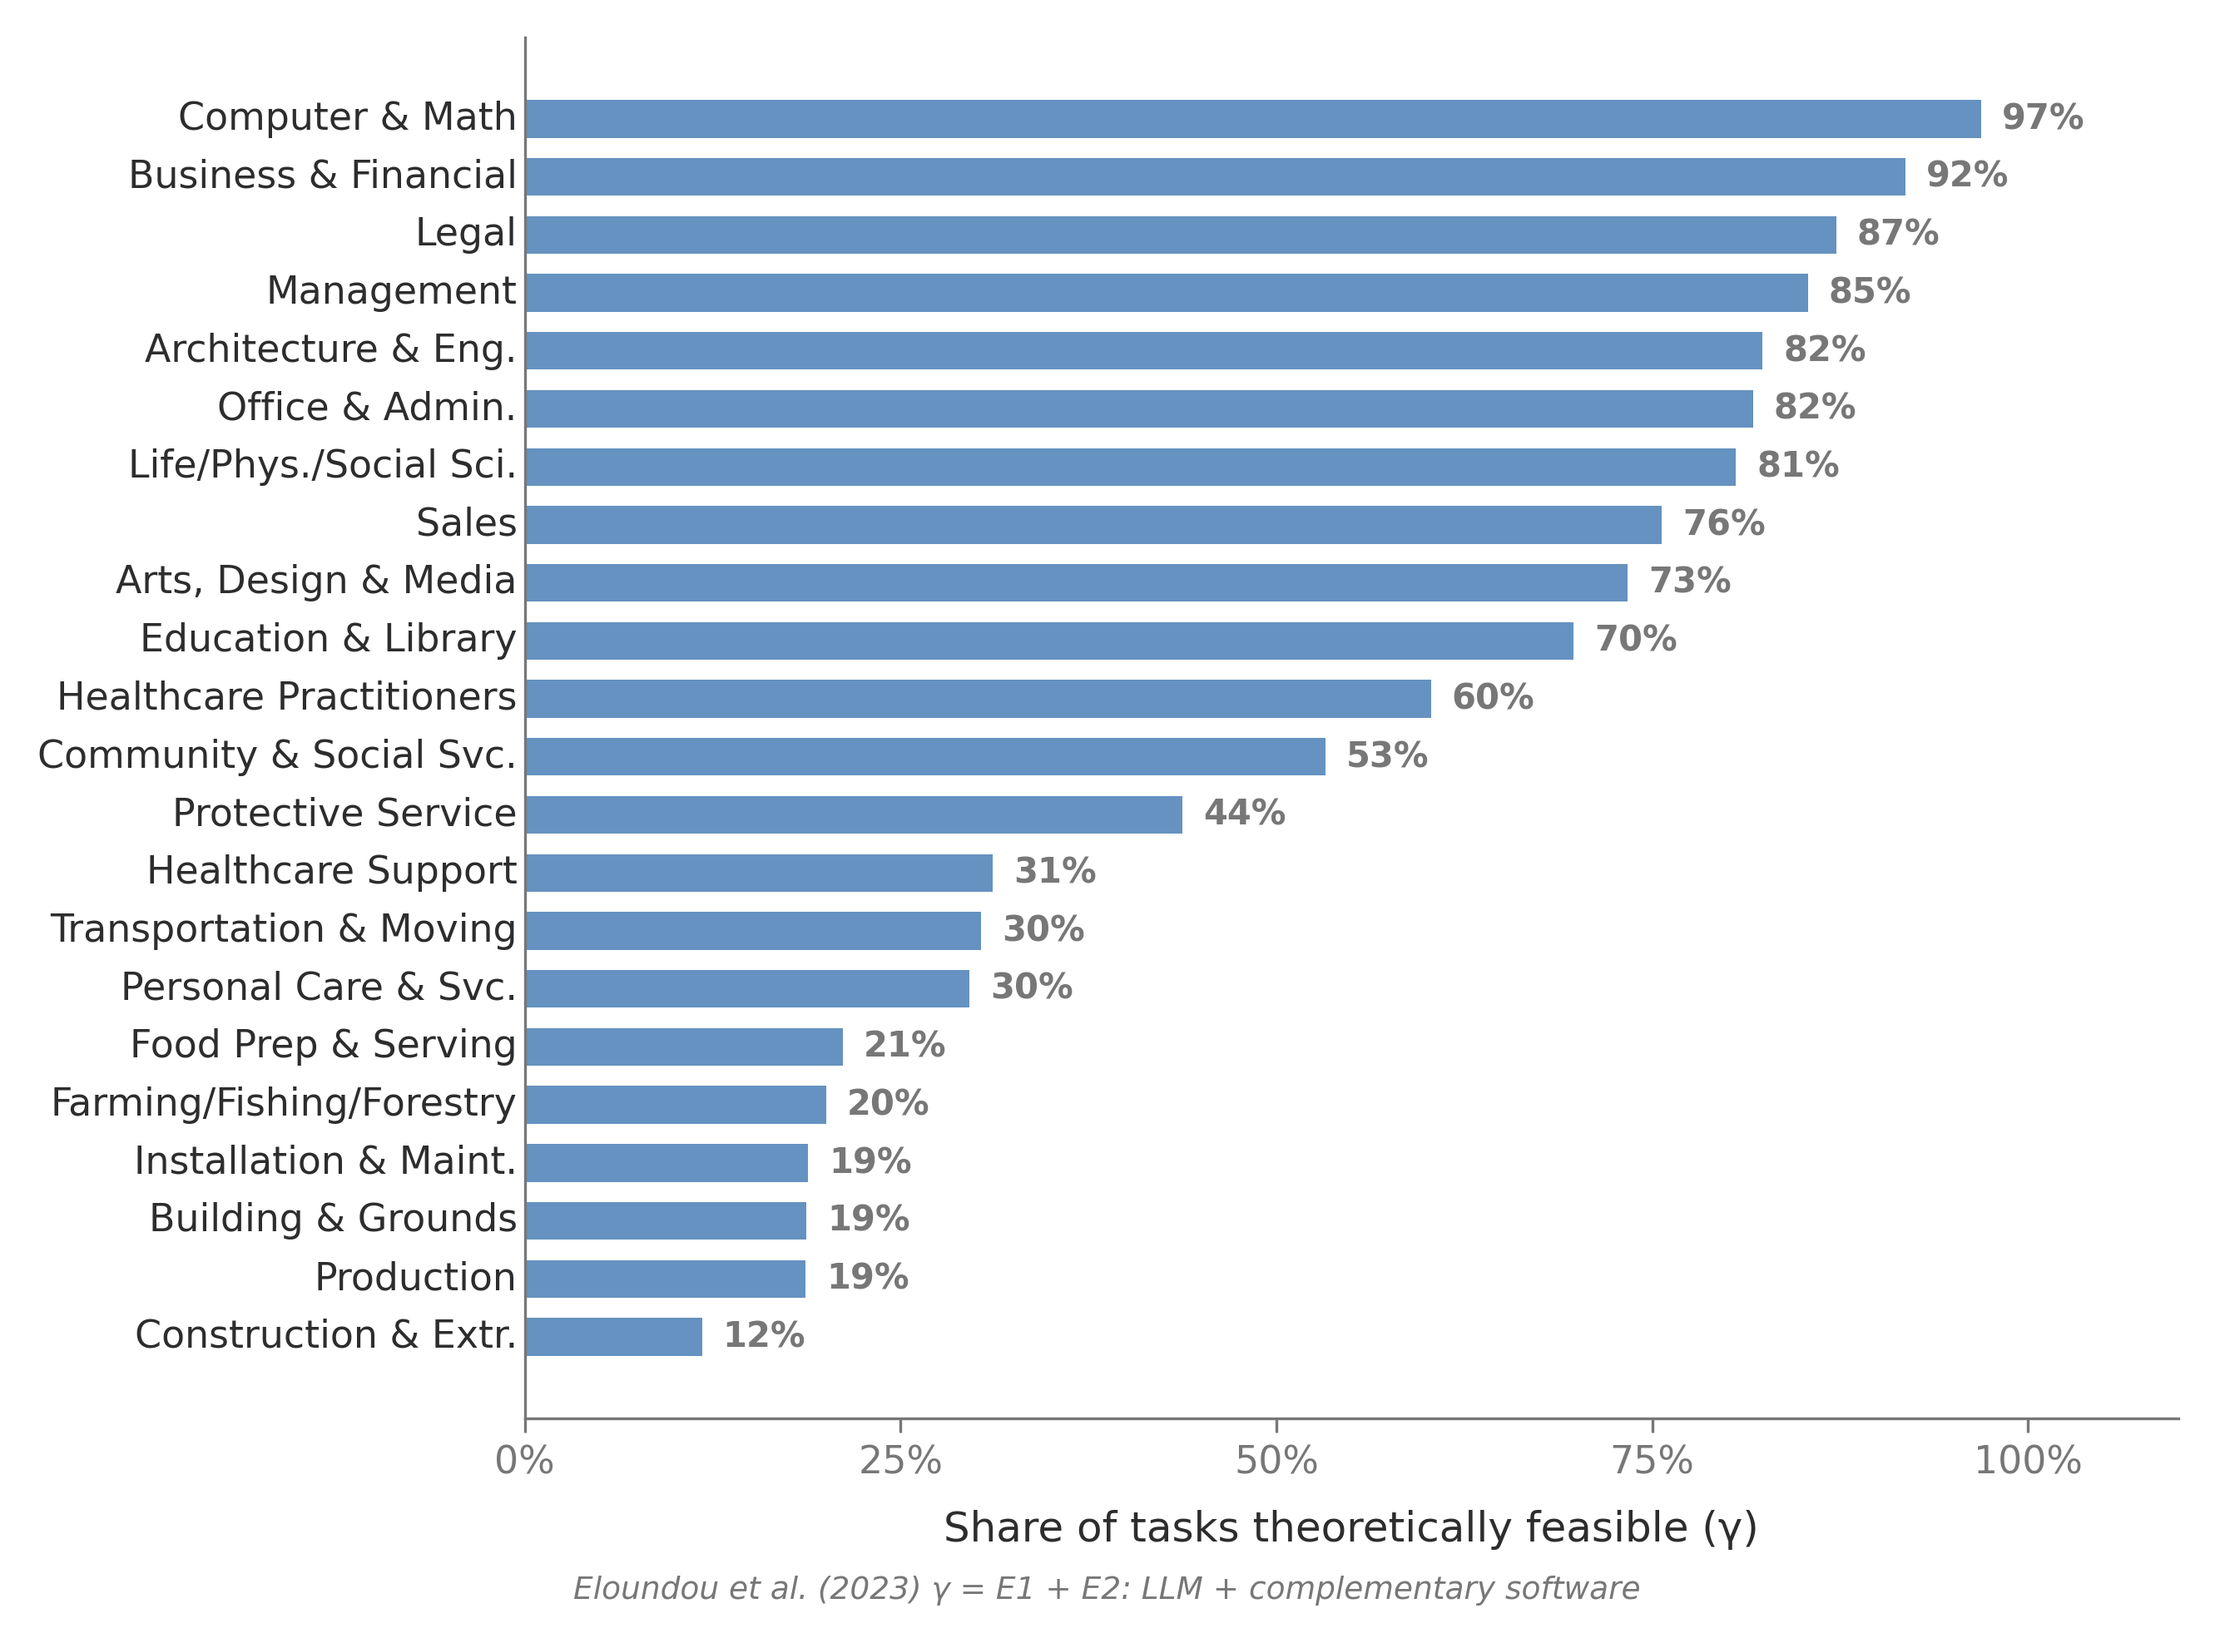
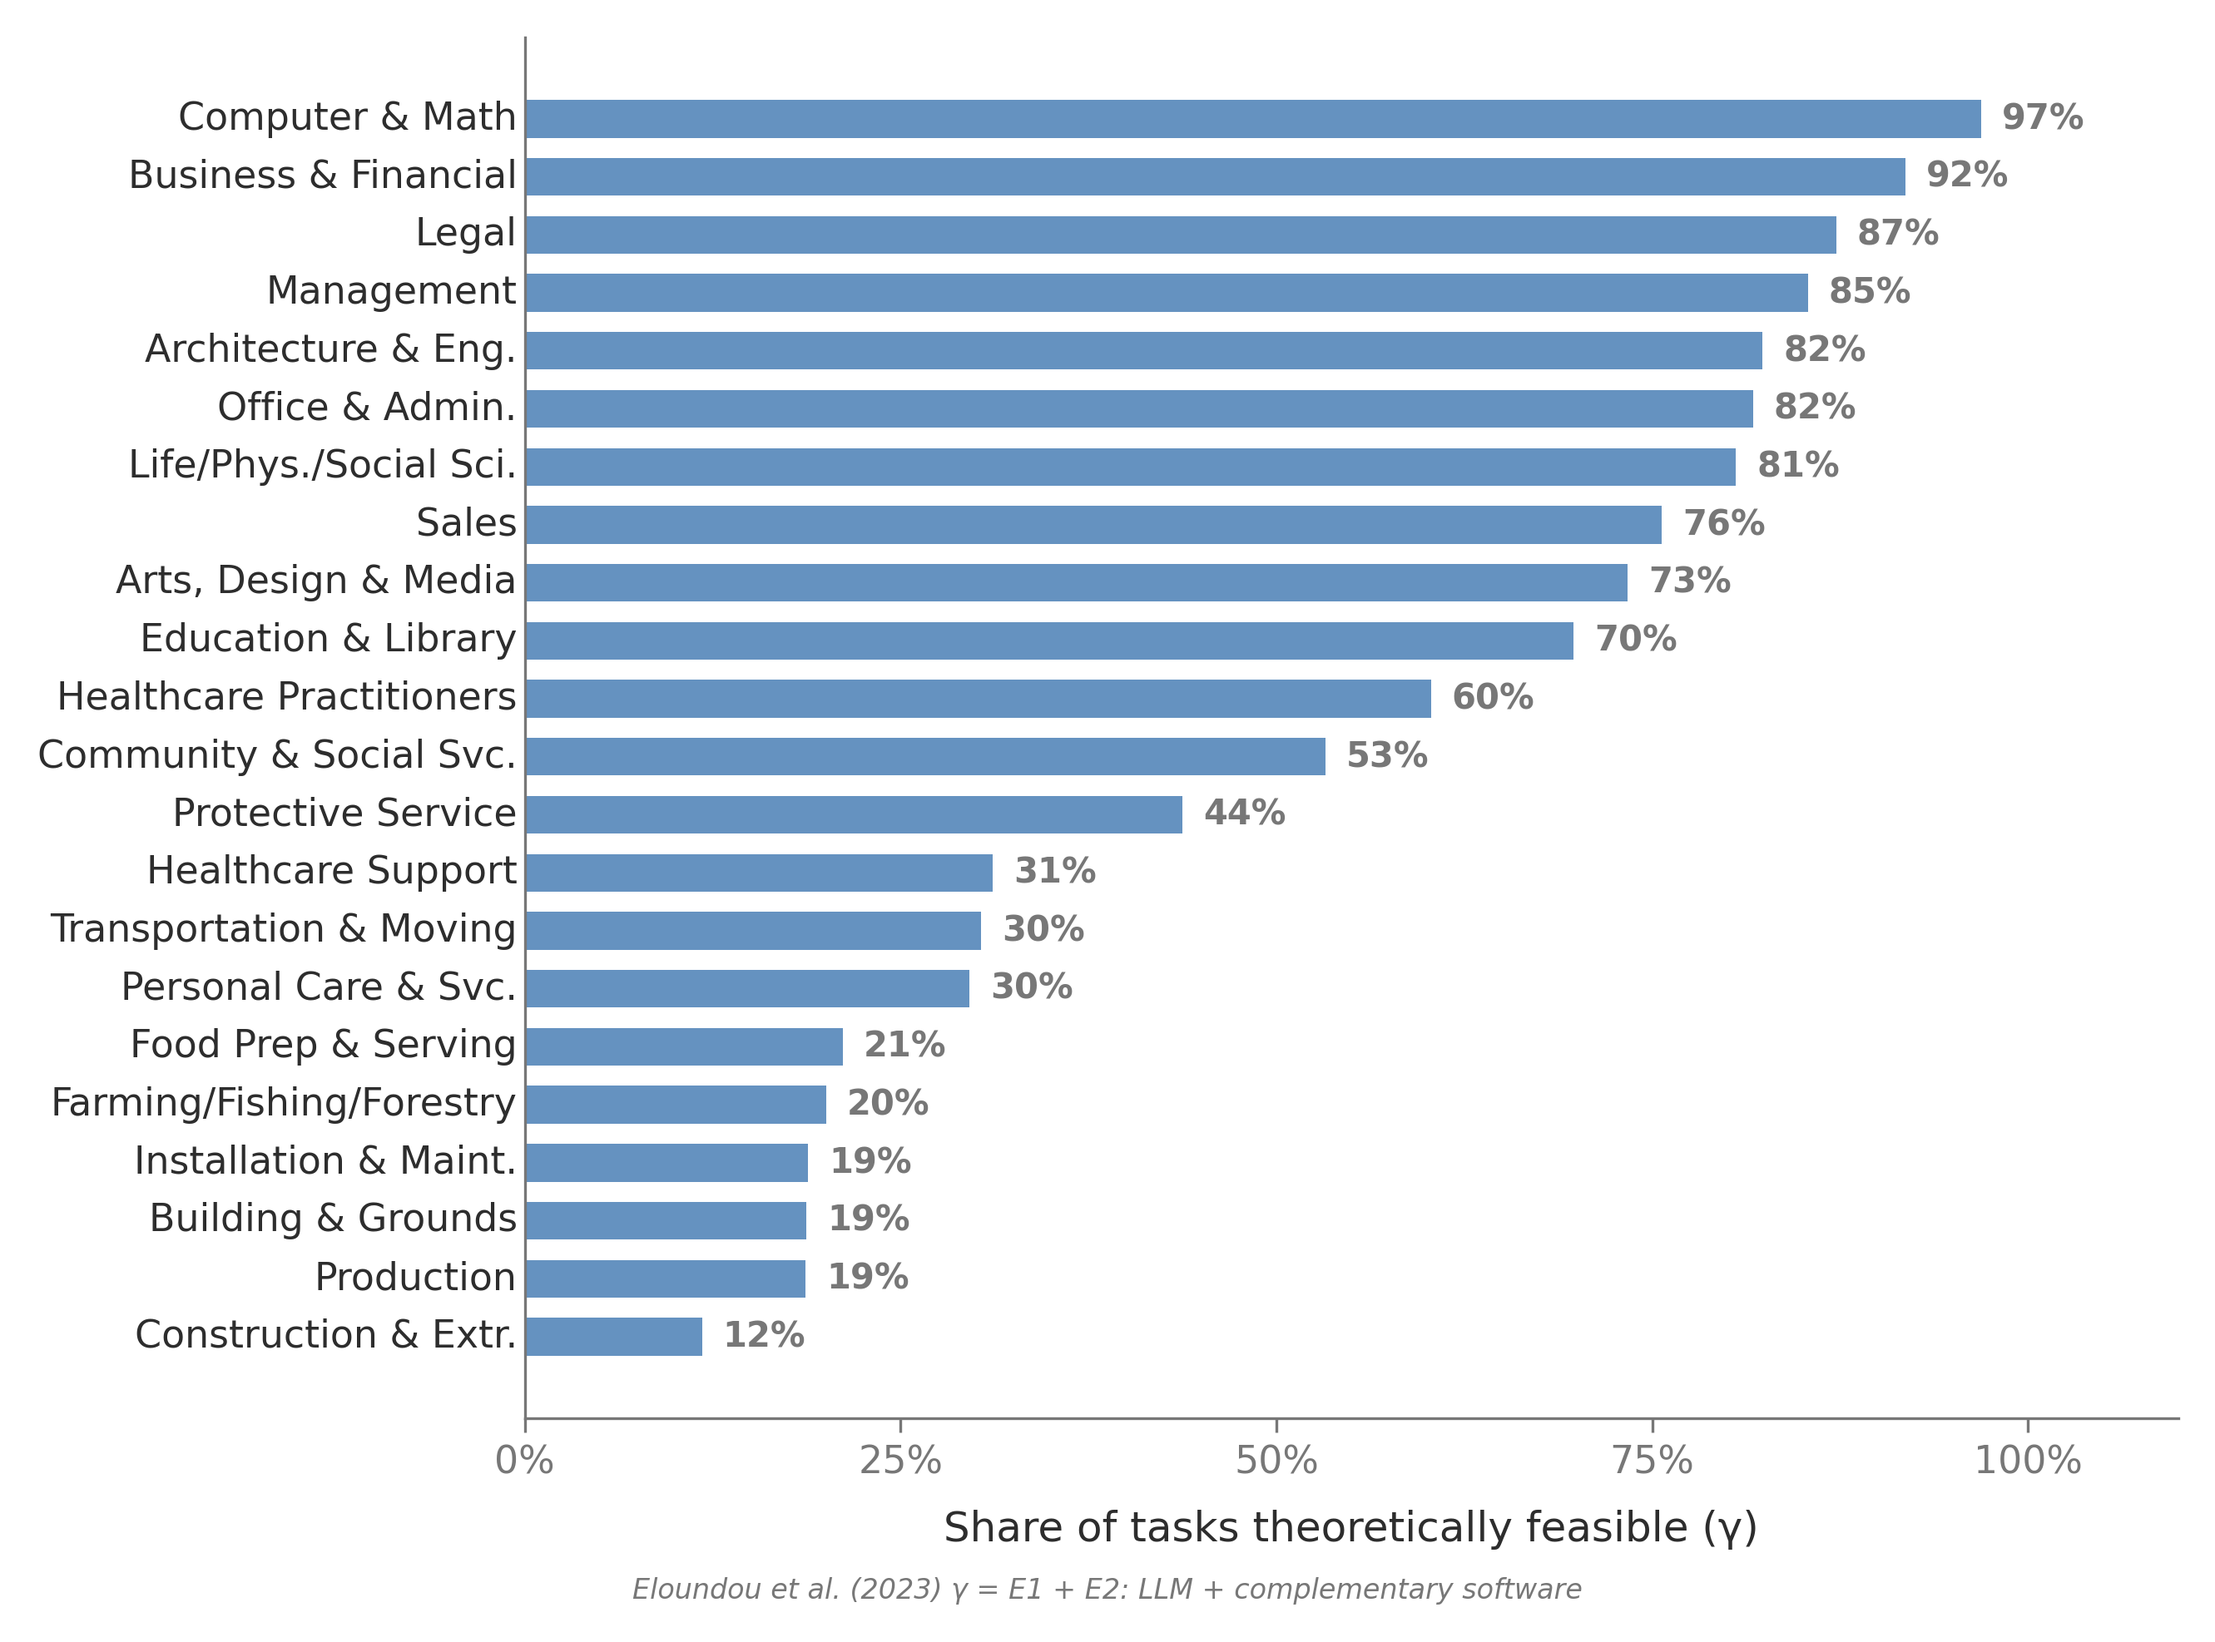
v0.7.9.7: Style system upgrade

Changed region(s): [[0.2494, 0.958, 0.7483, 0.9889]]

diff --git a/figures/style.py b/figures/style.py
@@ -1,14 +1,41 @@
 """Shared style module for presentation figures."""
 import matplotlib.pyplot as plt
 from matplotlib.font_manager import findfont, FontProperties
+from matplotlib.ticker import FuncFormatter
 
-# Colors
-PRIMARY   = '#4A7FB5'  # steel blue — primary data
-SECONDARY = '#A0937D'  # warm gray — secondary/comparison
-DARK      = '#2D2D2D'  # charcoal — titles, labels
-MID       = '#777777'  # medium gray — annotations
-GRID      = '#E0E0E0'  # light gray — gridlines
-BG        = '#FFFFFF'   # white — always
+# ─── Core semantic colors ───
+PRIMARY   = '#4A7FB5'  # steel blue — "ours" / embedding data
+SECONDARY = '#A0937D'  # warm tan — "theirs" / O*NET / comparison
+
+# ─── Extended palette (multi-category plots) ───
+RED       = '#C75C5C'  # muted red
+ORANGE    = '#D4845A'  # amber
+GREEN     = '#6B9E78'  # sage
+PURPLE    = '#8B6BAE'  # muted purple
+
+# ─── Neutrals ───
+DARK      = '#2D2D2D'  # charcoal — titles, occupation labels
+MID       = '#777777'  # medium gray — annotations, subtitles
+GRID      = '#E0E0E0'  # light gray — gridlines, separators
+BG        = '#FFFFFF'
+
+# ─── Font size scale ───
+FONT_TITLE = 11        # panel titles, occupation headers
+FONT_LABEL = 9         # axis labels, bar labels
+FONT_TICK  = 8         # tick labels, annotation text
+FONT_NOTE  = 7.5       # subtitles, column headers, footnotes
+
+
+def lighten(hex_color, factor=0.85):
+    """Mix hex_color toward white. factor=0 returns original, factor=1 returns white."""
+    r = int(hex_color[1:3], 16)
+    g = int(hex_color[3:5], 16)
+    b = int(hex_color[5:7], 16)
+    r = int(r + (255 - r) * factor)
+    g = int(g + (255 - g) * factor)
+    b = int(b + (255 - b) * factor)
+    return f'#{r:02x}{g:02x}{b:02x}'
+
 
 def setup():
     """Apply full rcParams preamble. Returns detected font name."""
@@ -32,6 +59,13 @@ def setup():
     return font
 
 
+def add_subtitle(fig, text, y=-0.03, fontsize=None):
+    """Add italic caption below the plot area."""
+    fig.text(0.5, y, text, ha='center',
+             fontsize=fontsize or FONT_TICK,
+             color=MID, fontstyle='italic')
+
+
 def annotate_bracket(ax, y, x_left, x_right, label, *, offset_y=12,
                      fontsize=11.5, color=MID):
     """Draw a bracket between x_left and x_right at height y with label above."""
@@ -48,9 +82,19 @@ def annotate_bracket(ax, y, x_left, x_right, label, *, offset_y=12,
 
 
 def bar_label(ax, x, y, value, *, fmt='{:.1f}%', offset=(6, 0),
-              fontsize=13, color=DARK, **kwargs):
+              fontsize=None, color=DARK, **kwargs):
     """Place a value label at a bar tip using offset points."""
     ax.annotate(fmt.format(value), xy=(x, y), xycoords='data',
                 xytext=offset, textcoords='offset points',
-                ha='left', va='center', fontsize=fontsize, color=color,
-                fontweight='bold', **kwargs)
+                ha='left', va='center',
+                fontsize=fontsize or (FONT_TITLE + 2),
+                color=color, fontweight='bold', **kwargs)
+
+
+def format_log_ticks(ax, axis='y'):
+    """Replace scientific notation with plain integers on a log-scale axis."""
+    formatter = FuncFormatter(lambda x, _: f'{int(x):,}' if x >= 1 else '')
+    if axis == 'y':
+        ax.yaxis.set_major_formatter(formatter)
+    else:
+        ax.xaxis.set_major_formatter(formatter)

diff --git a/figures/fig3_task_scatter.py b/figures/fig3_task_scatter.py
@@ -11,7 +11,7 @@ import matplotlib.pyplot as plt
 from matplotlib.lines import Line2D
 from sklearn.metrics.pairwise import cosine_similarity as cos_sim
 
-from figures.style import setup, DARK, MID, GRID
+from figures.style import setup, DARK, MID, GRID, PRIMARY, SECONDARY, RED, ORANGE, GREEN, PURPLE, add_subtitle
 from src.task_space.data.onet import get_dwa_titles
 from src.task_space.data.artifacts import get_embeddings
 from src.task_space.domain import build_dwa_activity_domain
@@ -19,12 +19,12 @@ from src.task_space.domain import build_dwa_activity_domain
 font = setup()
 
 CLUSTER_COLORS = {
-    'Healthcare':          '#C75C5C',
-    'Vehicle & Equipment': '#D4845A',
-    'Construction':        '#A0937D',
-    'Quantitative':        '#4A7FB5',
-    'Communication':       '#6B9E78',
-    'Technology':          '#8B6BAE',
+    'Healthcare':          RED,
+    'Vehicle & Equipment': ORANGE,
+    'Construction':        SECONDARY,
+    'Quantitative':        PRIMARY,
+    'Communication':       GREEN,
+    'Technology':          PURPLE,
 }
 
 # === Semantic anchor phrases ===
@@ -303,9 +303,7 @@ ax.spines['bottom'].set_color(GRID)
 ax.spines['left'].set_color(GRID)
 
 plt.tight_layout()
-fig.text(0.5, -0.03,
-         '30 selected DWAs from 2,087 — projected onto interpretable semantic axes',
-         ha='center', fontsize=8, color=MID, fontstyle='italic')
+add_subtitle(fig, '30 selected DWAs from 2,087 — projected onto interpretable semantic axes')
 plt.savefig('figures/fig3_task_scatter.png', dpi=300, bbox_inches='tight',
             facecolor='white', edgecolor='none')
 plt.close()

diff --git a/figures/fig6_embedding_similarity.py b/figures/fig6_embedding_similarity.py
@@ -8,9 +8,8 @@ sys.path.insert(0, os.path.join(os.path.dirname(__file__), '..'))
 
 import numpy as np
 import matplotlib.pyplot as plt
-from matplotlib.ticker import FuncFormatter
 
-from figures.style import setup, PRIMARY, SECONDARY, DARK, MID, GRID
+from figures.style import setup, PRIMARY, SECONDARY, DARK, MID, GRID, format_log_ticks, add_subtitle
 
 font = setup()
 
@@ -54,8 +53,8 @@ ax1.annotate(f'Budget\u2013Credit: {d_onet_pair:.2f}',
 ax1.set_title("O*NET Cosine Distance", fontsize=10, color=DARK, pad=6)
 ax1.set_ylabel('Pairs', fontsize=8, color=MID)
 ax1.set_xlim(0, 1.05)
+format_log_ticks(ax1)
 ax1.set_yticks([1, 10, 100, 1000, 10000, 100000])
-ax1.yaxis.set_major_formatter(FuncFormatter(lambda x, _: f'{int(x):,}' if x >= 1 else ''))
 ax1.tick_params(axis='both', labelsize=8)
 
 # --- Bottom panel: Embedding Centroid ---
@@ -74,9 +73,7 @@ ax2.set_xlabel('Distance', fontsize=9, color=MID)
 ax2.set_xlim(0, 1.05)
 ax2.tick_params(axis='both', labelsize=8)
 
-# Subtitle
-fig.text(0.5, -0.04, '78% of O*NET pairs at max distance — embeddings recover a usable distribution',
-         ha='center', fontsize=8, color=MID, fontstyle='italic')
+add_subtitle(fig, '78% of O*NET pairs at max distance — embeddings recover a usable distribution', y=-0.04)
 
 plt.savefig('figures/fig6_embedding_similarity.png', dpi=300, bbox_inches='tight',
             facecolor='white', edgecolor='none')

diff --git a/figures/fig4_scope.py b/figures/fig4_scope.py
@@ -6,7 +6,7 @@ import sys, os
 sys.path.insert(0, os.path.join(os.path.dirname(__file__), '..'))
 
 import matplotlib.pyplot as plt
-from figures.style import setup, PRIMARY, SECONDARY, DARK, MID
+from figures.style import setup, PRIMARY, SECONDARY, DARK, MID, add_subtitle
 
 font = setup()
 
@@ -33,9 +33,7 @@ ax.tick_params(axis='y', labelsize=9)
 ax.tick_params(axis='x', length=0)
 
 plt.tight_layout()
-fig.text(0.5, -0.02,
-         'Geometry ranks destinations correctly (MPR = 0.74) but does not predict aggregate flows',
-         ha='center', fontsize=8, color=MID, fontstyle='italic')
+add_subtitle(fig, 'Geometry ranks destinations correctly (MPR = 0.74) but does not predict aggregate flows', y=-0.02)
 plt.savefig('figures/fig4_scope.png', dpi=300, bbox_inches='tight',
             facecolor='white', edgecolor='none')
 plt.close()

diff --git a/figures/fig1_ai_exposure.py b/figures/fig1_ai_exposure.py
@@ -8,7 +8,7 @@ sys.path.insert(0, os.path.join(os.path.dirname(__file__), '..'))
 
 import pandas as pd
 import matplotlib.pyplot as plt
-from figures.style import setup, PRIMARY, MID, DARK
+from figures.style import setup, PRIMARY, MID, DARK, add_subtitle
 
 font = setup()
 
@@ -62,9 +62,7 @@ ax.set_xlabel('Share of tasks theoretically feasible (γ)', fontsize=12,
 ax.tick_params(axis='y', length=0)
 ax.tick_params(axis='x', length=4)
 
-fig.text(0.5, 0.005,
-         'Eloundou et al. (2023) γ = E1 + E2: LLM + complementary software',
-         ha='center', fontsize=9, color=MID, style='italic')
+add_subtitle(fig, 'Eloundou et al. (2023) γ = E1 + E2: LLM + complementary software', y=0.005)
 
 plt.tight_layout()
 plt.savefig('figures/fig1_ai_exposure.png', dpi=300, bbox_inches='tight',

diff --git a/LEDGER.md b/LEDGER.md
@@ -1,6 +1,6 @@
 # LEDGER.md — Task-Space Oracle Research State
 
-**Current Version:** 0.7.9.3
+**Current Version:** 0.7.9.7
 **Last Updated:** 2026-03-09
 **Paper Draft:** `paper/main.tex`
 
@@ -764,6 +764,7 @@ Deprecated approaches. Do not retry.
 | Version | Date | Changes |
 |---------|------|---------|
 | 0.7.9.3 | 2026-03-09 | Captions for fig3/fig4, swap fig5/fig6 to Budget vs Credit Analysts. |
+| 0.7.9.7 | 2026-03-10 | Style system upgrade — centralized palette (RED/ORANGE/GREEN/PURPLE), font scale constants, add_subtitle() and format_log_ticks() helpers. |
 | 0.7.9.2 | 2026-03-09 | Fig4 vertical bars, fig6 remove exponents and update subtitle. |
 | 0.7.9.1 | 2026-03-09 | Create fig4 (scope), fix fig5 centering/ellipses, fix fig6 log scale/sizing. |
 | 0.7.9.0 | 2026-03-09 | New figures — fig5 (shared DWAs), fig6 (embedding similarity), fig7 (Sankey pipeline), fig3 resized to 6.0×4.2. |
